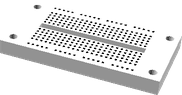
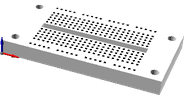
further catalogue tweaks

diff --git a/hardware/ci/views.py b/hardware/ci/views.py
@@ -143,7 +143,7 @@ def render_view_using_file(obj_title, scadfile, dir, view, hashchanged, hash="")
         print("        View up to date")
 
 
-def render_view(obj_title, obj_call, dir, view, hashchanged, hash="", includes=[]):
+def render_view(obj_title, obj_call, dir, view, hashchanged, hash="", includes=[], debug=False):
     temp_name = 'temp.scad'
 
     # make a file to use the module
@@ -154,8 +154,12 @@ def render_view(obj_title, obj_call, dir, view, hashchanged, hash="", includes=[
         f.write("include <"+i+">\n")
     f.write("UseSTL=true;\n");
     f.write("UseVitaminSTL=true;\n");
-    f.write("DebugConnectors=false;\n");
-    f.write("DebugCoordinateFrames=false;\n");
+    if debug:
+        f.write("DebugConnectors=true;\n");
+        f.write("DebugCoordinateFrames=true;\n");
+    else:
+        f.write("DebugConnectors=false;\n");
+        f.write("DebugCoordinateFrames=false;\n");
     f.write(obj_call + ";\n");
     f.close()
 

diff --git a/hardware/ci/catalogue.py b/hardware/ci/catalogue.py
@@ -100,7 +100,7 @@ def compile_vitamin(v, dom):
             if type(view) is DictType and view['type'] == 'view':
                 print("      "+view['title'])
 
-                render_view(v['title'], v['call'], view_dir, view, hashchanged, h, [fn])
+                render_view(v['title'], v['call'], view_dir, view, hashchanged, h, [fn], True)
 
                 png_name = view_dir + '/' + view_filename(v['title'] + '_' + view['title'])
                 view['png_name'] = png_name

diff --git a/hardware/ci/build.py b/hardware/ci/build.py
@@ -12,6 +12,7 @@ from cut import cut
 from printed import printed
 from guides import guides
 from publish import publish
+from catalogue import catalogue
 
 def build(do_publish=0):
     print("Build")
@@ -42,6 +43,8 @@ def build(do_publish=0):
 
     if errorlevel == 0:
         errorlevel += guides()
+
+    catalogue();
 
     if errorlevel == 0 and do_publish > 0:
         publish()
